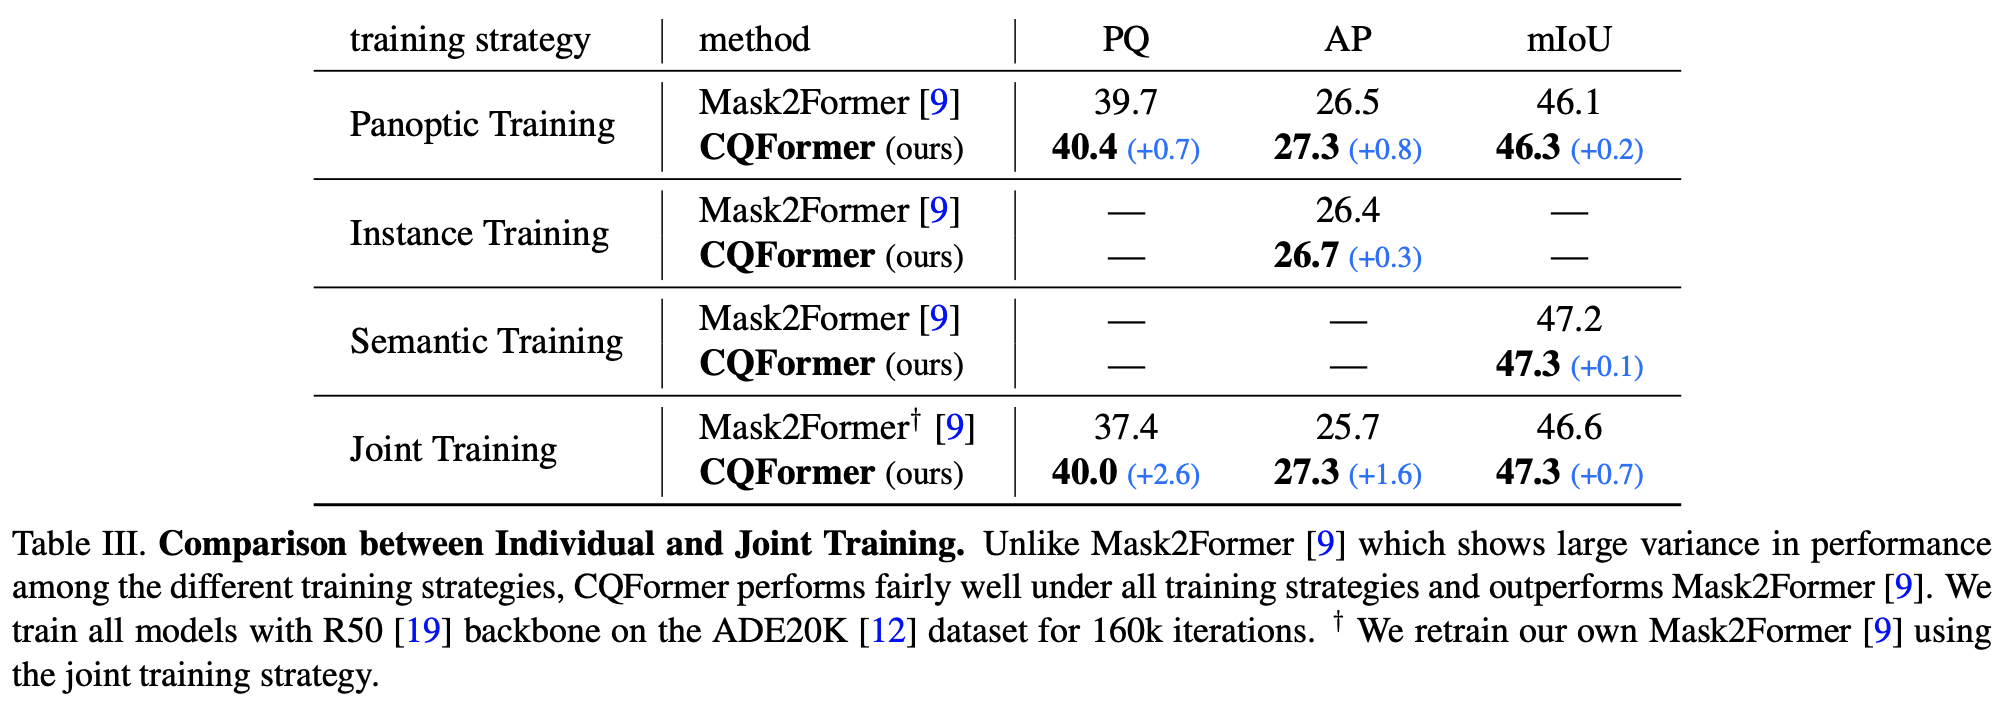
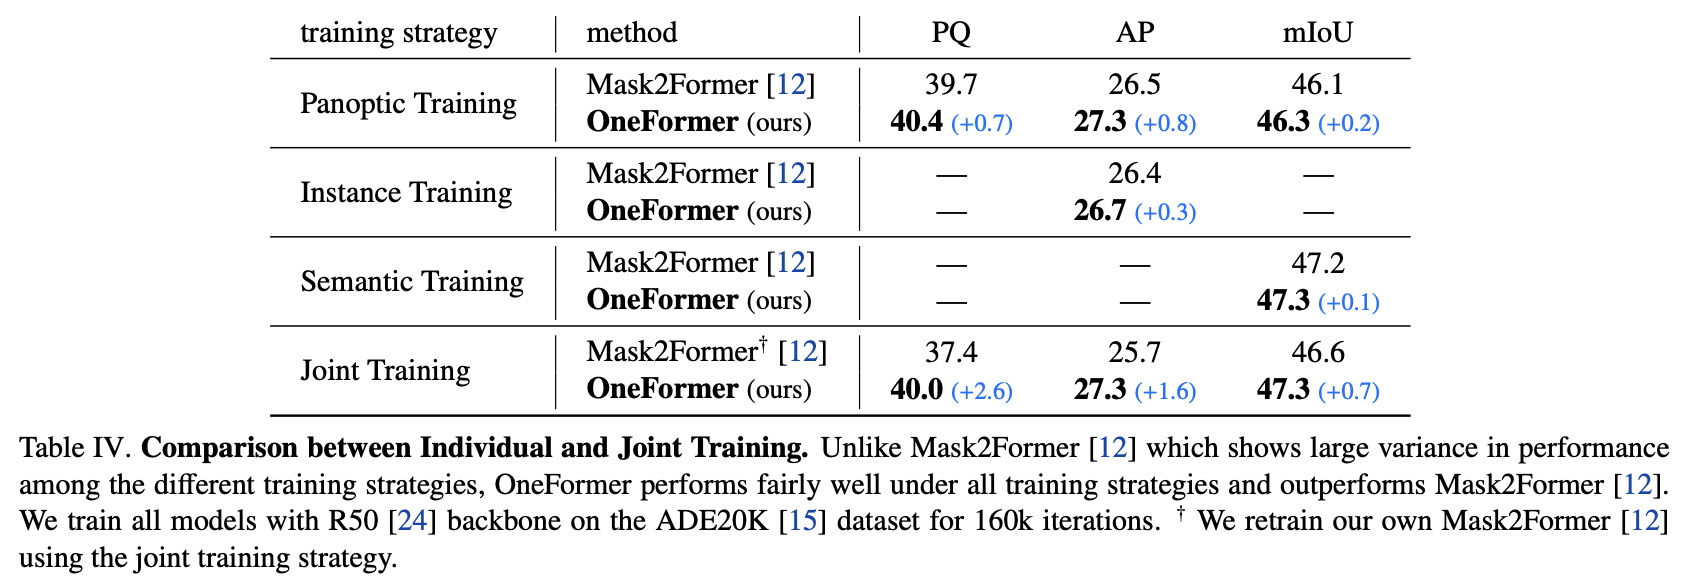
:hammer: Fix table

diff --git a/oneformer/index.html b/oneformer/index.html
@@ -205,7 +205,7 @@
             <summary style="font-size:22px;">Individual v/s Joint Training</summary>
             <p><img src="./individual.png" style="display: block;margin-left: auto;margin-right: auto;max-width:70%" class="center"></p>
             <p>We analyze our OneFormer's performance with individual training on the panoptic, instance, and semantic segmentation task. 
-              OneFormer outperforms Mask2Former (the previous SOTA universal image segmentation method) with every training strategy. 
+              OneFormer outperforms Mask2Former (the previous SOTA semi-universal image segmentation method) with every training strategy. 
               Furthermore, with joint training, Mask2Former suffers a significant drop in performance, and OneFormer achieves the highest 
               AP and mIoU scores with only a 0.4% drop in PQ score as compared to the panoptic training setting.</p>
             </details>
